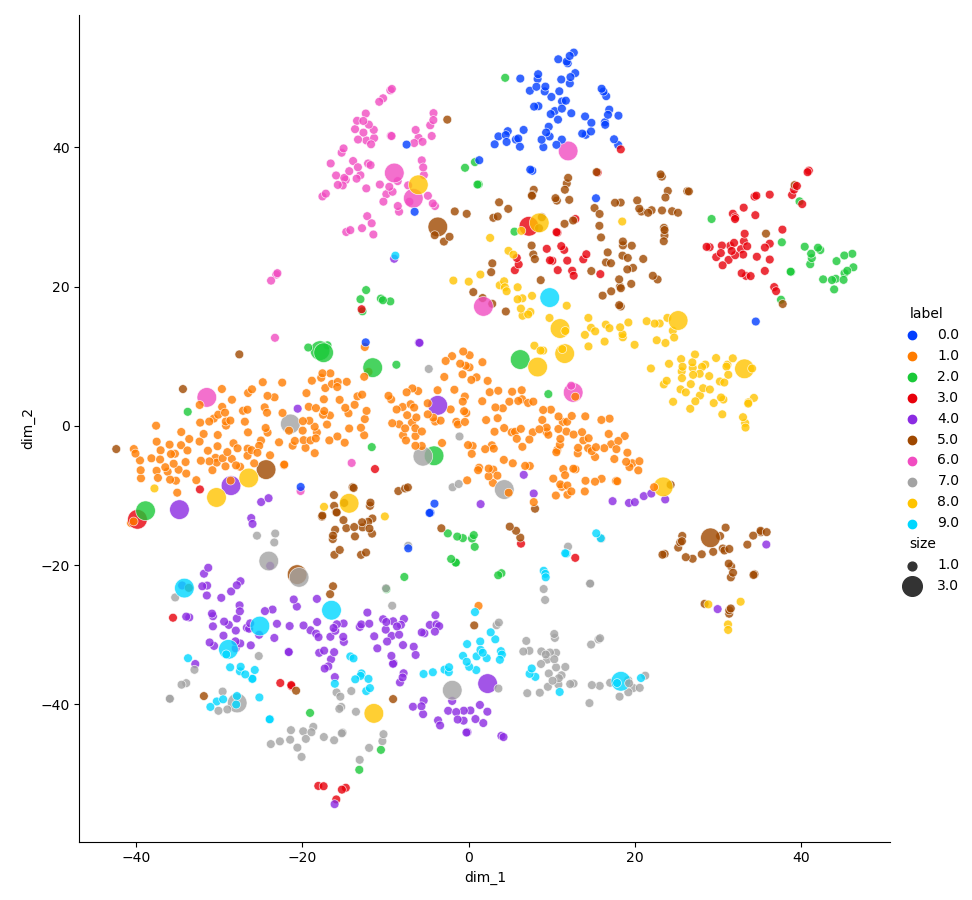
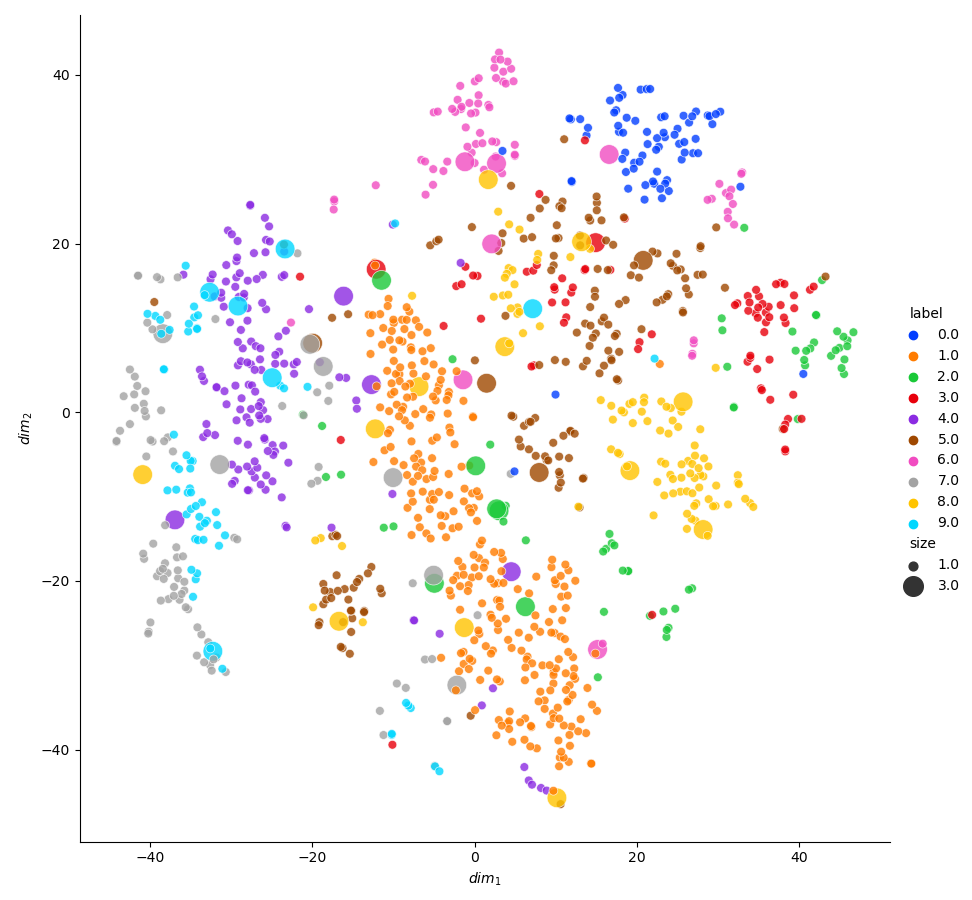
update dim symbol of tsne

diff --git a/visualize_image.py b/visualize_image.py
@@ -107,14 +107,15 @@ def view_SNE():
 
     # Creating a new data frame which helps us in ploting the result data
     tsne_data = np.vstack((tsne_data.T, y_all, y_pred_all, s)).T
-    tsne_df = pd.DataFrame(data=tsne_data, columns=("dim_1", "dim_2", "label", "pred", "size"))
+    columns =(r'${dim}_1$', r'${dim}_2$', "label", "pred", "size")
+    tsne_df = pd.DataFrame(data=tsne_data, columns=columns)
 
     # Ploting the result of tsne
-    sns.relplot(x="dim_1", y="dim_2", hue="label", size="size",  sizes=(40, 200), palette="bright", alpha=.8, height=9, legend="auto", data=tsne_df)
+    sns.relplot(x=columns[0], y=columns[1], hue=columns[2], size=columns[4],  sizes=(40, 200), palette="bright", alpha=.8, height=9, legend="auto", data=tsne_df)
     plt.savefig(f'./figures/mnist/images/tSNE_label.png')
     plt.close()
 
-    sns.relplot(x="dim_1", y="dim_2", hue="pred", size="size",  sizes=(40, 200), palette="bright", alpha=.8, height=9, legend="auto", data=tsne_df)
+    sns.relplot(x=columns[0], y=columns[1], hue=columns[3], size=columns[4],  sizes=(40, 200), palette="bright", alpha=.8, height=9, legend="auto", data=tsne_df)
     # legends = [str(i) for i in range(10)]
     # plt.legend(frameon=False, labels=legends, loc='upper left', bbox_to_anchor=(1, 1))
     plt.savefig(f'./figures/mnist/images/tSNE_pred.png')
